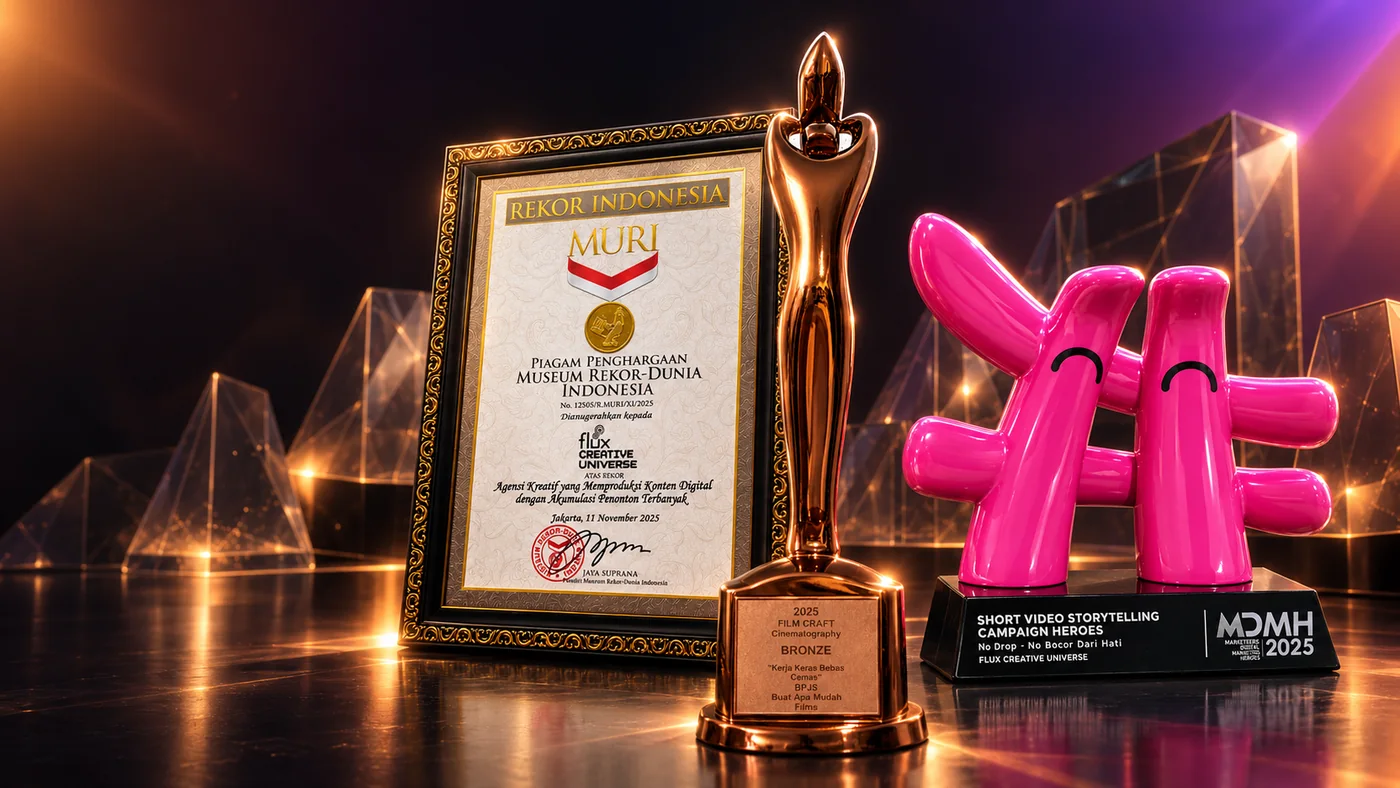
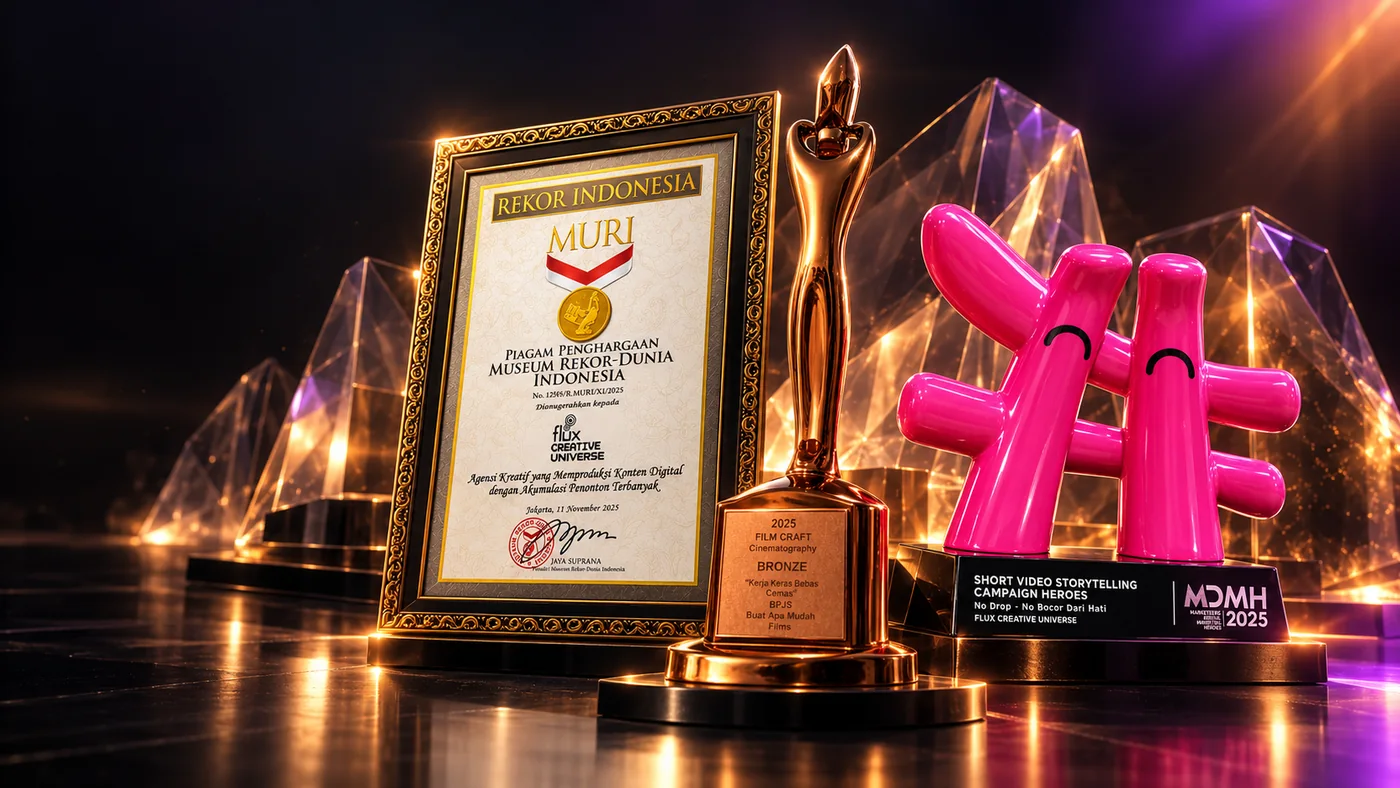
Home Award card: updated awards photo
Claude-Session: https://claude.ai/code/session_01QpfYAiXFaQHcA12hC36bw4

diff --git a/index.html b/index.html
@@ -901,7 +901,7 @@
       <div class="big">AWARD<br>WINNING.</div>
       <p>Our work gets recognized.</p>
       <a class="arrow" href="#">→</a>
-      <img class="pic cover award-pic" src="award-card.webp?v=1" alt="Piagam MURI, piala Film Craft, dan piala MDMH 2025" decoding="async">
+      <img class="pic cover award-pic" src="award-card.webp?v=2" alt="Piagam MURI, piala Film Craft, dan piala MDMH 2025" decoding="async">
     </article>
 
     <article class="card work" tabindex="0" data-title="OUR WORK">
